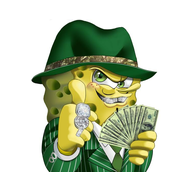
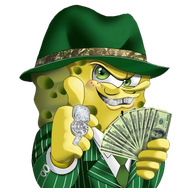
Ícone do Avareza sem o fundo branco

diff --git a/web/sw.js b/web/sw.js
@@ -1,5 +1,5 @@
 // Guarda só a casca do site para abrir rápido; dado sempre vem da rede.
-const CASCA = 'financas-v19';
+const CASCA = 'financas-v20';
 const ARQS = ['/', '/index.html', '/style.css', '/app.js', '/vendor/muuri.min.js', '/manifest.webmanifest', '/icone-192.png', '/icone.png'];
 self.addEventListener('install', e => e.waitUntil(caches.open(CASCA).then(c => c.addAll(ARQS))));
 self.addEventListener('activate', e => e.waitUntil(caches.keys().then(ks => Promise.all(ks.filter(k => k !== CASCA).map(k => caches.delete(k))))));
